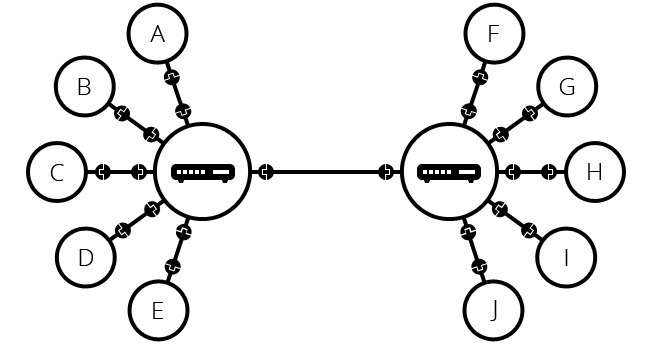
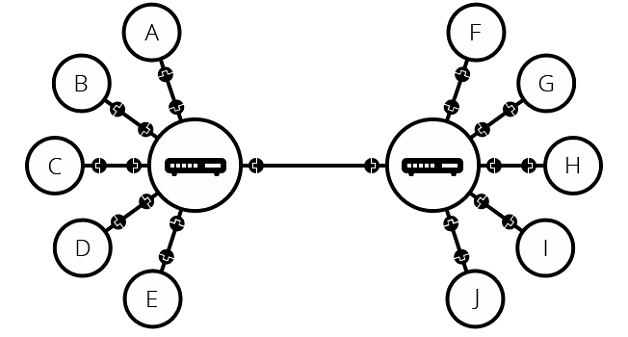
network 이미지 사이즈 변경

Changed region(s): [[0.7261, 0.2077, 0.7564, 0.2374], [0.242, 0.2077, 0.2723, 0.2374], [0.121, 0.2374, 0.1513, 0.2671]]

diff --git a/Internet/how_does_the_internet_work.md b/Internet/how_does_the_internet_work.md
@@ -2,7 +2,7 @@
 
 인터넷은 웹의 핵심적인 기술이다. 인터넷의 가장 기본적인 것은 컴퓨터들이 서로 통신 가능한 거대한 네트워크라는 것이다.
 
-## 단순 네트워크
+### 단순 네트워크
 
 두 개의 컴퓨터가 통신이 필요할 때 우리는 다른 컴퓨터와 물리적으로(이더넷 케이블) 또는 무선으로(WiFi, Bluetooth)으로 연결되어야 한다.
 
